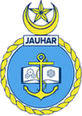
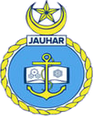
style: update form header layout and styling
Refine the header appearance by increasing border thickness, implementing a two-line title structure for better readability, and adjusting mobile padding.

diff --git a/index.html b/index.html
@@ -63,7 +63,7 @@
       gap: 0;
       margin: auto 0;
       background-color: var(--card-bg);
-      border: 3px solid var(--navy);
+      border: 4px solid var(--navy);
       border-radius: var(--radius-card);
       box-shadow: 0 10px 28px rgba(31, 58, 104, 0.08), 0 2px 6px rgba(31, 58, 104, 0.04);
       overflow: hidden;
@@ -82,7 +82,7 @@
       gap: 16px;
       padding-bottom: 18px;
       margin-bottom: 24px;
-      border-bottom: 3px solid var(--navy);
+      border-bottom: 4px solid var(--navy);
     }
 
     .logo-slot {
@@ -119,12 +119,27 @@
       margin: 0;
       text-align: center;
       color: var(--navy);
-      font-size: clamp(1.12rem, 3vw, 1.55rem);
-      font-weight: 700;
-      letter-spacing: 0.03em;
-      line-height: 1.25;
-      text-wrap: balance;
+      display: flex;
+      flex-direction: column;
+      align-items: center;
+      justify-content: center;
+      gap: 3px;
       min-width: 0;
+    }
+
+    .form-title-main {
+      font-size: clamp(0.72rem, 2.65vw, 1.32rem);
+      font-weight: 700;
+      letter-spacing: 0.02em;
+      line-height: 1.2;
+      white-space: nowrap;
+    }
+
+    .form-title-sub {
+      font-size: clamp(0.78rem, 2.45vw, 1.16rem);
+      font-weight: 700;
+      letter-spacing: 0.04em;
+      line-height: 1.2;
     }
 
     /* Form Fields */
@@ -298,22 +313,18 @@
       }
 
       .form-card {
-        padding: 18px 16px 22px;
+        padding: 18px 14px 22px;
       }
 
       .form-header {
-        grid-template-columns: minmax(36px, auto) 1fr minmax(36px, auto);
-        gap: 10px;
+        grid-template-columns: minmax(34px, auto) 1fr minmax(34px, auto);
+        gap: 8px;
         padding-bottom: 14px;
         margin-bottom: 18px;
       }
 
       .header-logo {
         max-width: 78px;
-      }
-
-      .form-title {
-        font-size: clamp(0.98rem, 4.3vw, 1.25rem);
       }
 
       .suggestion-form {
@@ -323,6 +334,12 @@
       .site-footer {
         padding: 12px 14px;
         font-size: 0.8125rem;
+      }
+    }
+
+    @media (max-width: 345px) {
+      .form-title-main {
+        font-size: 0.66rem;
       }
     }
   </style>
@@ -341,7 +358,10 @@
           />
         </div>
 
-        <h1 class="form-title">ES - SUGGESTION FORM</h1>
+        <h1 class="form-title">
+          <span class="form-title-main">ENGINEERING SCIENCES DEPT</span>
+          <span class="form-title-sub">SUGGESTION FORM</span>
+        </h1>
 
         <div class="logo-slot logo-slot-right" id="logoSlotRight">
           <img
@@ -609,16 +629,17 @@
       }
 
       function renderSharpLogoCanvas(entry) {
-        const { trimCanvas, displayCanvas } = entry;
+        const { trimCanvas, displayCanvas, widthScale } = entry;
         const origW = trimCanvas.width;
         const origH = trimCanvas.height;
         const targetCssH = getTargetCssHeight();
         const maxAllowedW = window.innerWidth <= 540 ? 96 : 150;
         const dpr = window.devicePixelRatio || 1;
+        const wScale = widthScale || 1;
 
-        // Never enlarge beyond the original pixels
+        // Keep exact height while applying optional subtle horizontal width adjustment
         let cssH = Math.min(targetCssH, origH);
-        const aspect = origW / origH;
+        const aspect = (origW / origH) * wScale;
         let cssW = cssH * aspect;
 
         if (cssW > maxAllowedW) {
@@ -631,13 +652,15 @@
         cssH = Math.max(1, Math.round(cssH * 100) / 100);
 
         const pixelH = Math.min(origH, Math.max(1, Math.round(cssH * dpr)));
-        const pixelW = Math.min(origW, Math.max(1, Math.round(pixelH * aspect)));
+        const maxPixelW = Math.round(origW * wScale);
+        const pixelW = Math.min(maxPixelW, Math.max(1, Math.round(pixelH * aspect)));
 
         displayCanvas.width = pixelW;
         displayCanvas.height = pixelH;
         displayCanvas.style.height = cssH + "px";
         displayCanvas.style.width = cssW + "px";
         displayCanvas.style.maxWidth = "none";
+        displayCanvas.style.objectFit = "fill";
 
         const ctx = displayCanvas.getContext("2d");
         ctx.clearRect(0, 0, pixelW, pixelH);
@@ -646,7 +669,7 @@
         ctx.drawImage(trimCanvas, 0, 0, origW, origH, 0, 0, pixelW, pixelH);
       }
 
-      function processHeaderLogo(imgEl, slotEl, fallbackSources) {
+      function processHeaderLogo(imgEl, slotEl, fallbackSources, widthScale) {
         let lastProcessedSrc = "";
         let fallbackIndex = 0;
 
@@ -698,7 +721,7 @@
             displayCanvas.setAttribute("role", "img");
             displayCanvas.setAttribute("aria-label", imgEl.alt || "Logo");
 
-            const entry = { trimCanvas, displayCanvas };
+            const entry = { trimCanvas, displayCanvas, widthScale: widthScale || 1 };
             renderSharpLogoCanvas(entry);
             processedLogos.push(entry);
 
@@ -731,12 +754,14 @@
       processHeaderLogo(
         document.getElementById("logoLeft"),
         document.getElementById("logoSlotLeft"),
-        ["1.jpg", "1.png", "/assets/aistudio/1_5c2ceda8.jpeg"]
+        ["1.jpg", "1.png", "/assets/aistudio/1_5c2ceda8.jpeg"],
+        1.14
       );
       processHeaderLogo(
         document.getElementById("logoRight"),
         document.getElementById("logoSlotRight"),
-        ["2.jpeg", "2.png", "/assets/aistudio/2_4bfca449.jpg"]
+        ["2.jpeg", "2.png", "/assets/aistudio/2_4bfca449.jpg"],
+        1
       );
 
       /* =========================================================
